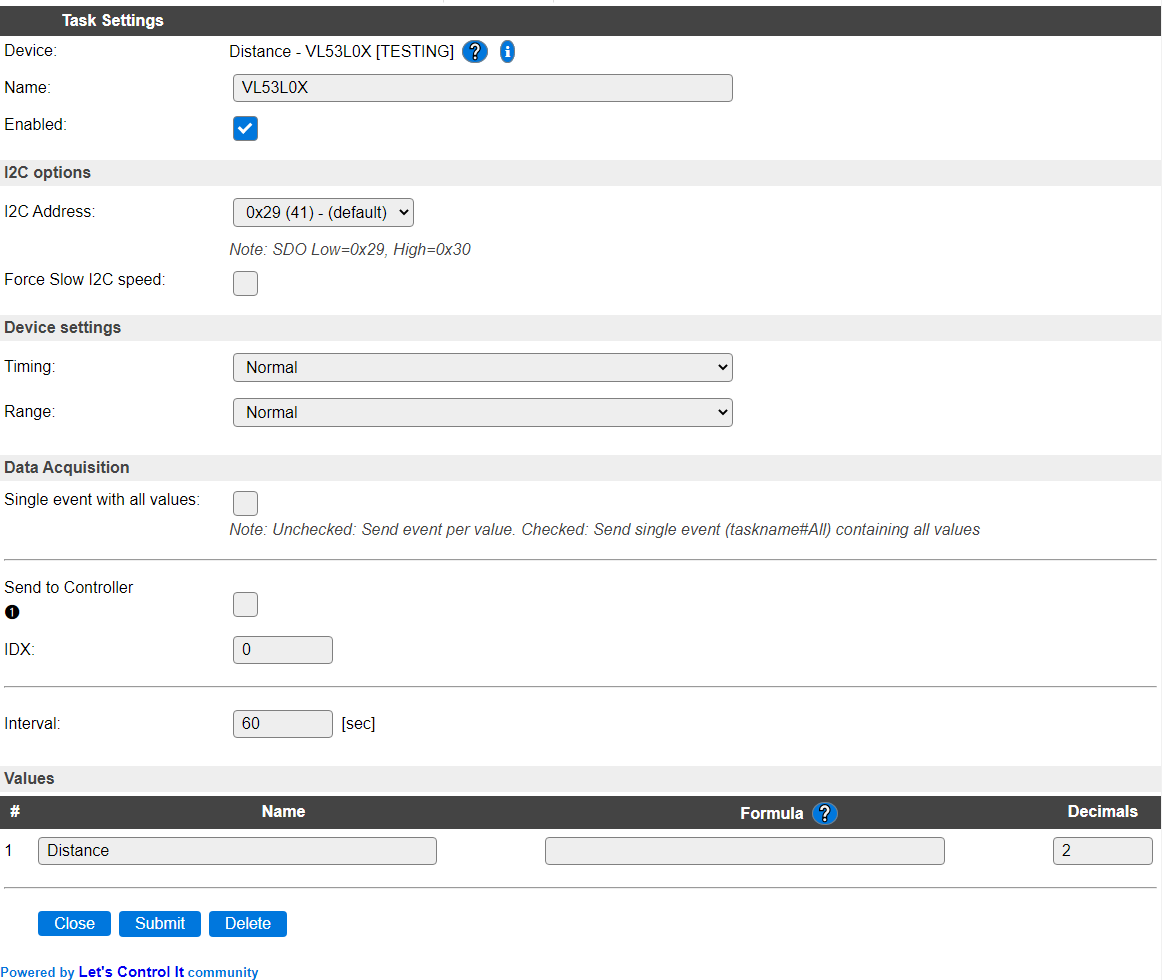
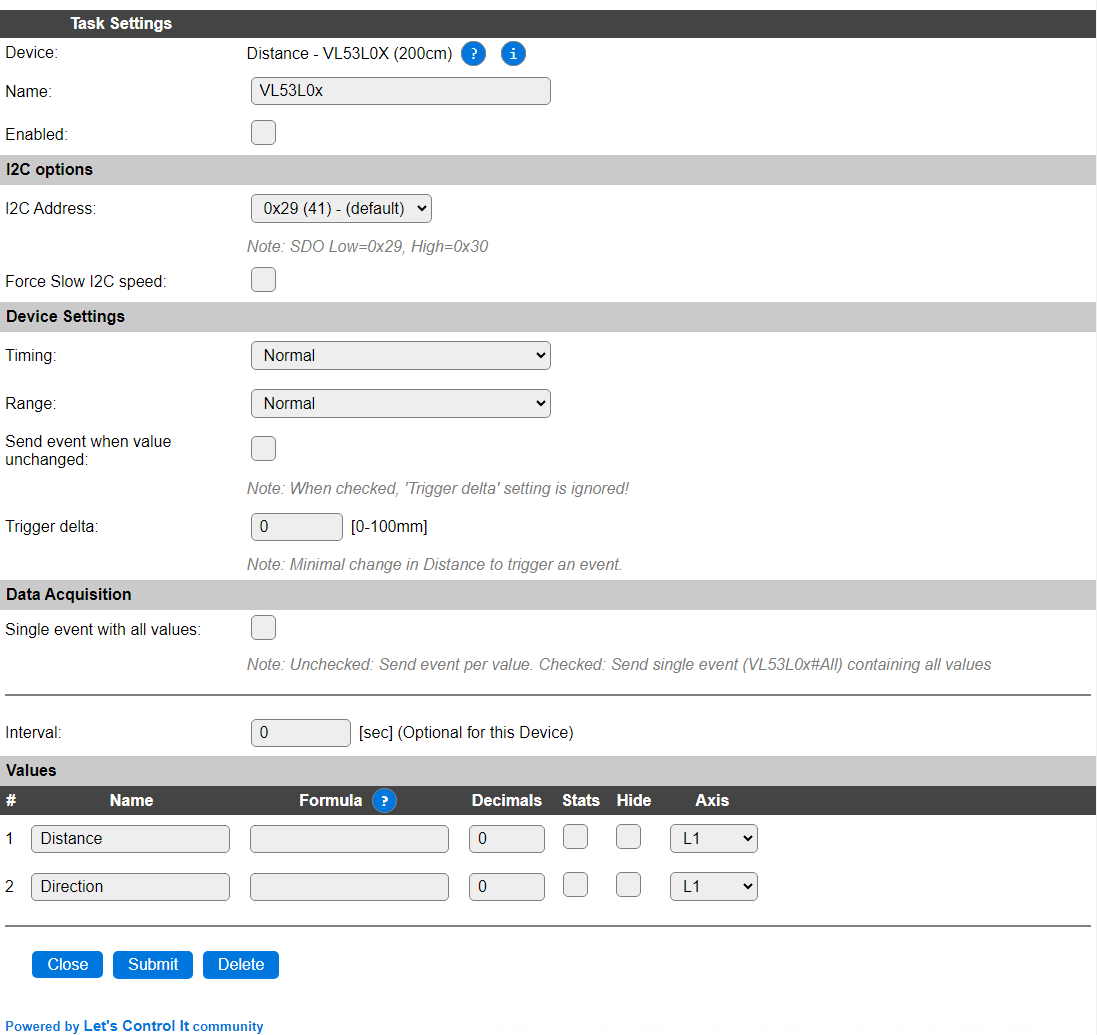
[P110] Update documentation

Changed region(s): [[0.0, 0.4592, 1.0, 0.8878], [0.0, 0.0, 1.0, 0.5204], [0.0, 0.9184, 0.2789, 1.0]]

diff --git a/docs/source/Plugin/P110.rst b/docs/source/Plugin/P110.rst
@@ -31,21 +31,21 @@ Configuration
 
 .. image:: P110_DeviceConfiguration.png
 
-**Name** A unique name should be entered here.
+* **Name** A unique name should be entered here.
 
-**Enabled** The device can be disabled or enabled. When not enabled the device should not use any resources.
+* **Enabled** The device can be disabled or enabled. When not enabled the device should not use any resources.
 
 I2C Options 
 ^^^^^^^^^^^^
 
 The available settings here depend on the build used. At least the **Force Slow I2C speed** option is available, but selections for the I2C Multiplexer can also be shown. For details see the :ref:`Hardware_page`
 
-**I2C Address**: The address the device is using. Some boards holding this chip offer an extra connection SDO that can be used to select the address, other boards just allow to select the secondary address and keep that active until the next power-cycle of the sensor.
+* **I2C Address**: The address the device is using. Some boards holding this chip offer an extra connection SDO that can be used to select the address, other boards just allow to select the secondary address and keep that active until the next power-cycle of the sensor.
 
 Device Settings
 ^^^^^^^^^^^^^^^^
 
-**Timing**: The timing setting of the sensor determines the accuracy of the measurement. There are 3 options available:
+* **Timing**: The timing setting of the sensor determines the accuracy of the measurement. There are 3 options available:
 
 .. image:: P110_TimingOptions.png
 
@@ -55,7 +55,7 @@ Device Settings
 
 *Accurate* A slower but far more accurate measurement (320 msec.) For use with a longer read interval setting (30-60 sec).
 
-**Range**: the measuring ranges:
+* **Range**: the measuring ranges:
 
 .. image:: P110_RangeOptions.png
 
@@ -63,12 +63,22 @@ Device Settings
 
 *Long* For measurements in the 0 to 2000 millimeter range (but somewhat less accurate).
 
+* **Send event when value unchanged**: When checked, will generate events for every **Interval**, when unchecked *and* **Interval** is set to 0, a change in **Distance** will immediately trigger events. (NB: Behavior changed since 2024/04/27, when this option was added)
+
+* **Trigger delta** To avoid triggering many events with only a small difference in distance the 'Trigger delta' option is available. This can be set to only trigger an event when the new distance is at least the delta less or more than the previous measurement.
+
+NB: This setting is ignored if 'Send event when value unchanged' is checked!
+n
 The Data Acquisition, Send to Controller and Interval settings are standard available configuration items. Send to Controller only when one or more Controllers are configured.
+
+``Interval`` can now be set to 0, causing events to only be generated when changed, with ``Trigger delta`` calculated in.
 
 Values
 ^^^^^^
 
-There is only 1 value available for this sensor, with the default name ``Distance``. A formula can be set to recalculate, f.e. to centimeters using ``%value%/10``. The number of decimals is by default set to 2, but for use with millimeters distance it can be set to 0, as no decimals are provided from the measurement.
+There are 2 values available for this sensor, with the default name ``Distance`` and ``Direction``. A formula can be set to recalculate the distance, f.e. to centimeters using ``%value%/10``. The number of decimals can be set to 0, when using millimeters, as no decimals are provided from the measurement.
+
+Value ``Direction`` holds the direction relative to the *previous* distance value: ``-1`` = smaller distance, ``0`` = unchanged distance, ``1`` = greater distance.
 
 .. Events
 .. ~~~~~~
@@ -82,6 +92,8 @@ Change log
 
 .. versionchanged:: 2.0
   ...
+
+  |added| 2024-04-27 Add options for ``Send event when value unchanged`` and ``Trigger delta``, causing somewhat changed behavior.
 
   |added| 2021-02-06 Moved to main repository Plugin 110 from PluginPlayground Plugin 133
 
